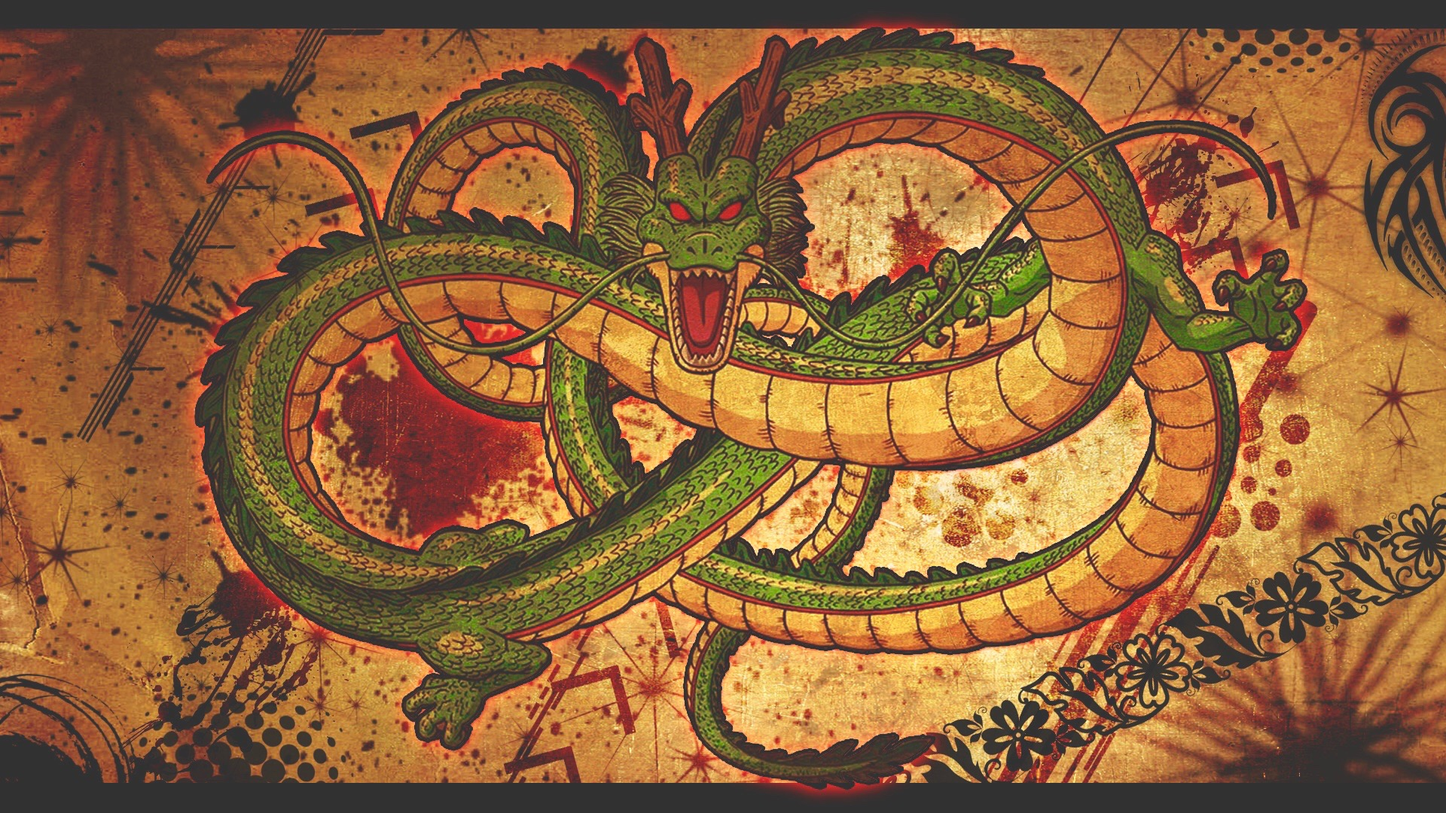
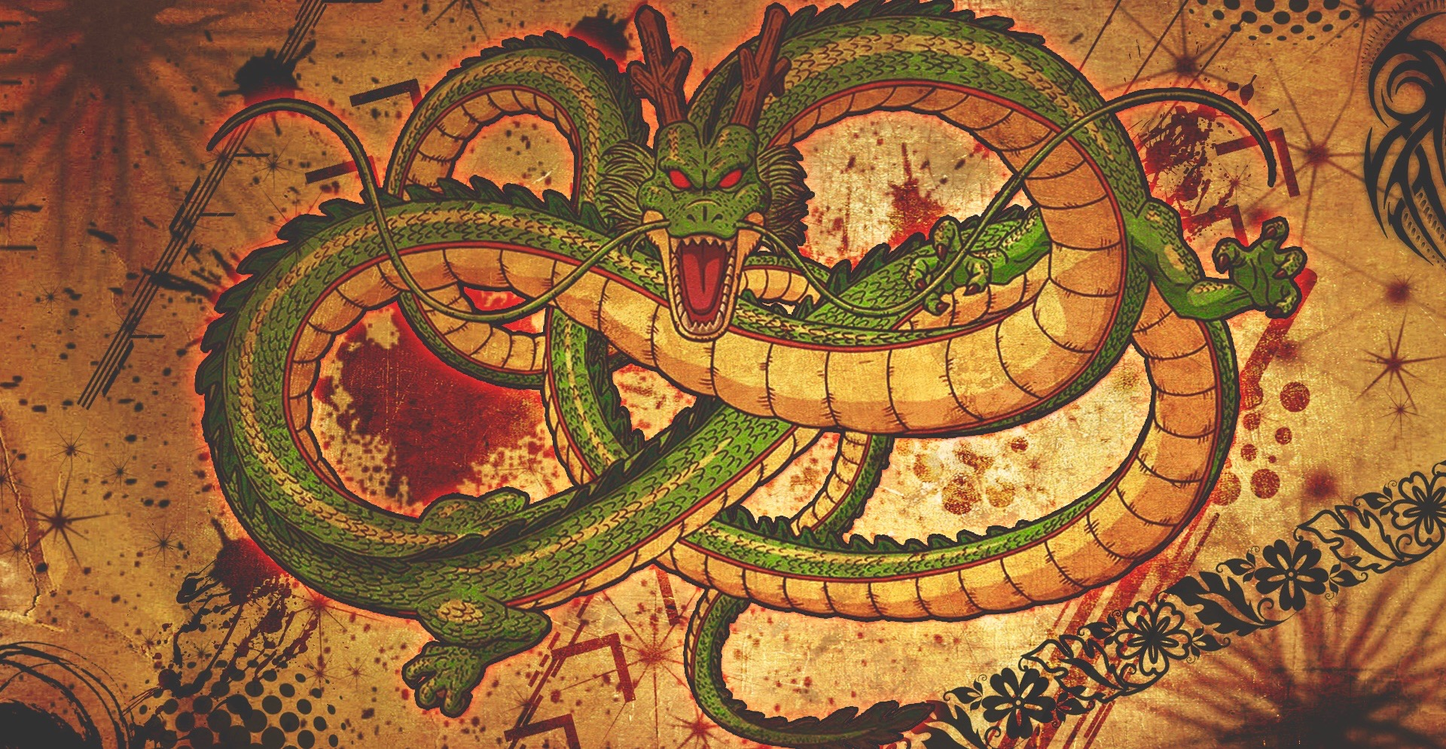
Updated the colors

diff --git a/js/main.js b/js/main.js
@@ -32,6 +32,7 @@ var Game=(function(){
       if(userSequence.join('')!=sequence.slice(0,userSequence.length).join('')) {
         $(".msg1").html("GAME");
         $(".msg2").html("OVER");
+        alert("Your power levels are too low, Game Over!");
         return false;
       } else if(userSequence.length==sequence.length) {
         $(".msg1").html(sequence.length)
@@ -50,7 +51,7 @@ var Game=(function(){
 // Highlight the colors and dehighlights as the game continues.     
     function highlight(){
       $(this)
-        .addClass('hl .circle animated bounce');
+        .addClass('hl .animated bounce .circle');
       setTimeout(dehighlight.bind(this),500);
     }
 

diff --git a/css/style.css b/css/style.css
@@ -18,7 +18,7 @@ body {
 h1 {
     font-size: 72px;
     margin: 0;
-    color: ghostwhite;
+    color: rgb(200, 214, 214);
     padding-top: 10px;
 }
 
@@ -67,7 +67,10 @@ h1,
     margin-right: auto;
 }
 
-
+.msg1,
+.msg2 {
+    font-size: 50px;
+}
 
 #gameContent .circle {
     opacity: .5;

diff --git a/index.html b/index.html
@@ -17,7 +17,7 @@
             <h1>Chi Chi Says</h1>
             <div class="msg1">&nbsp;</div>
             <div class="msg2">&nbsp;</div>
-            <h2 id="level">Level : 0</h2>
+            
         </div>
 
     <div id="container"> 
